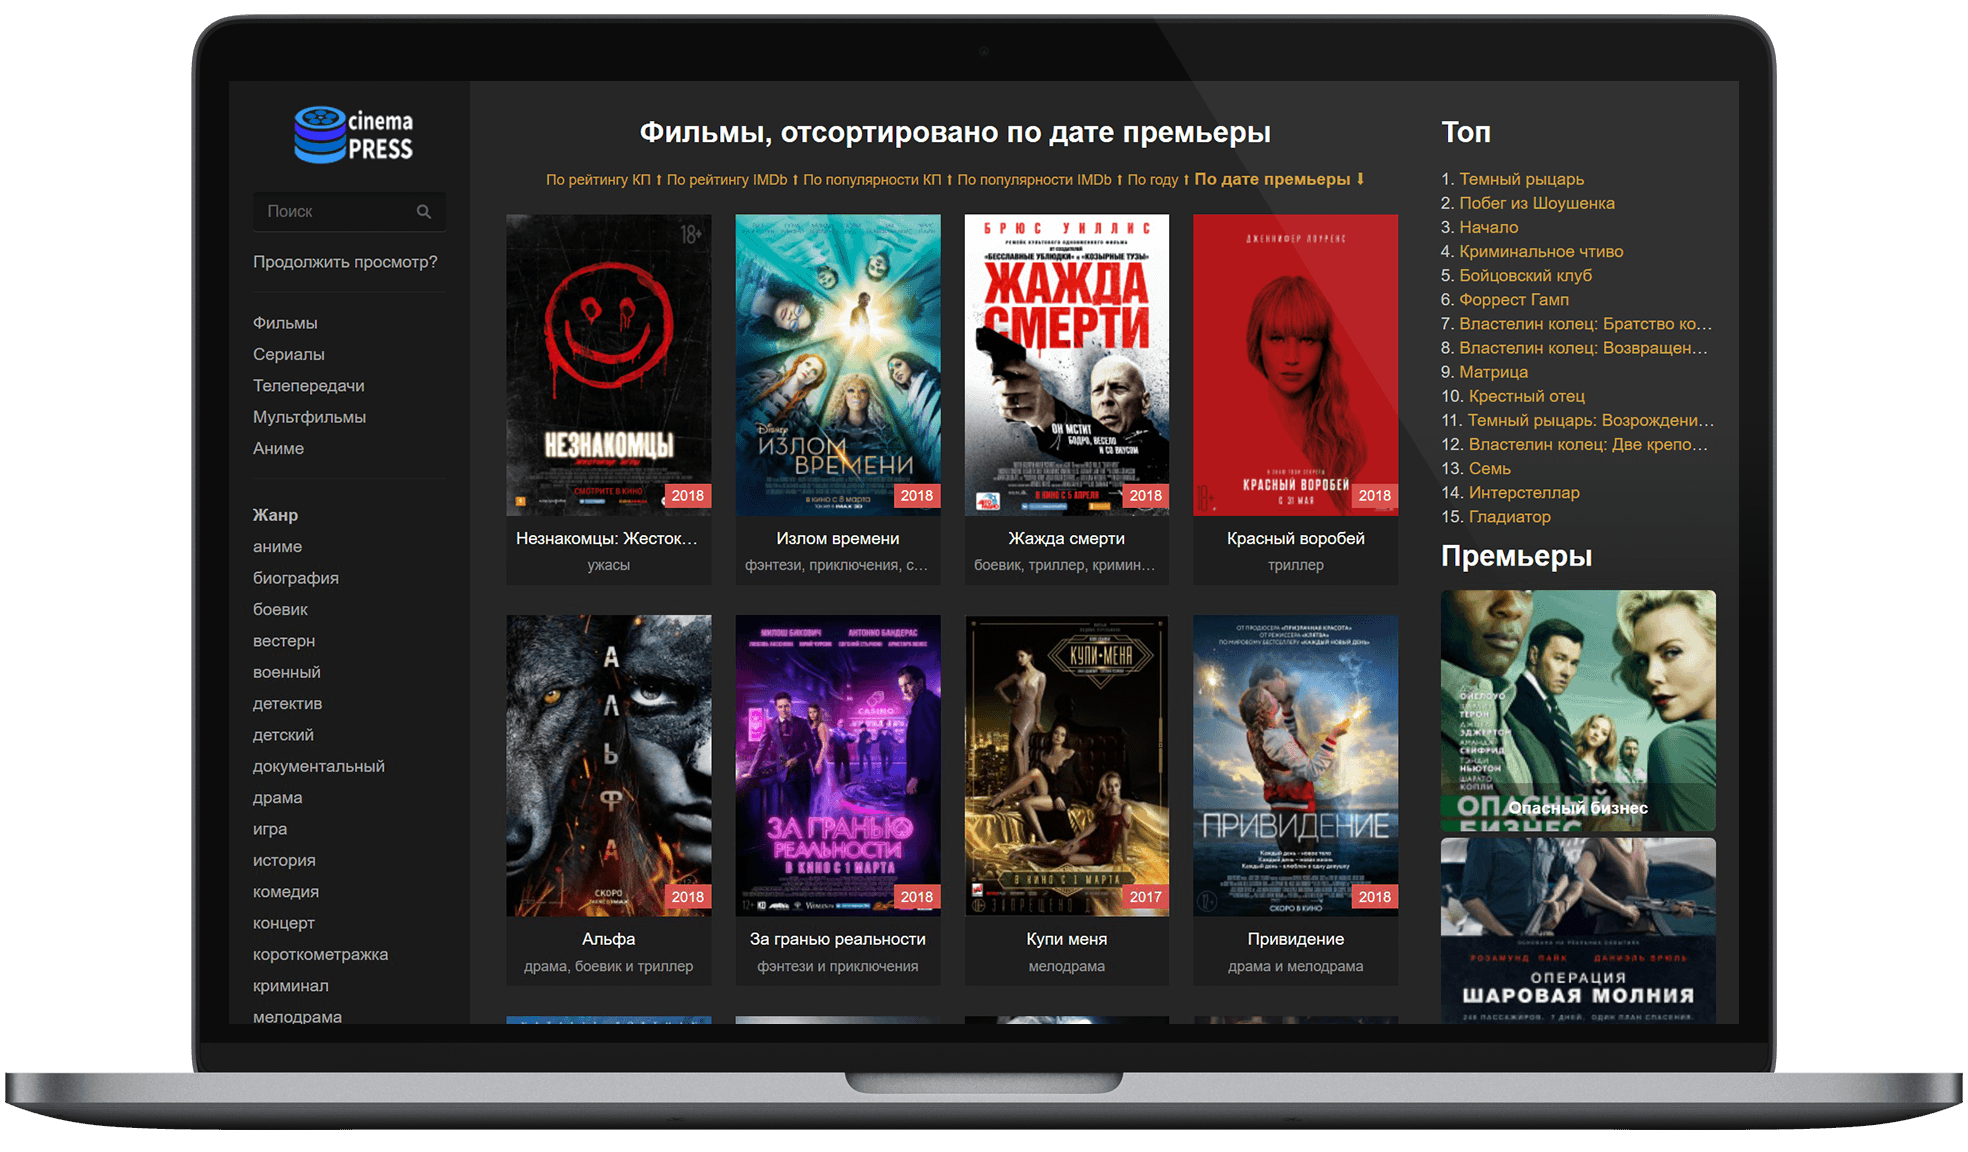
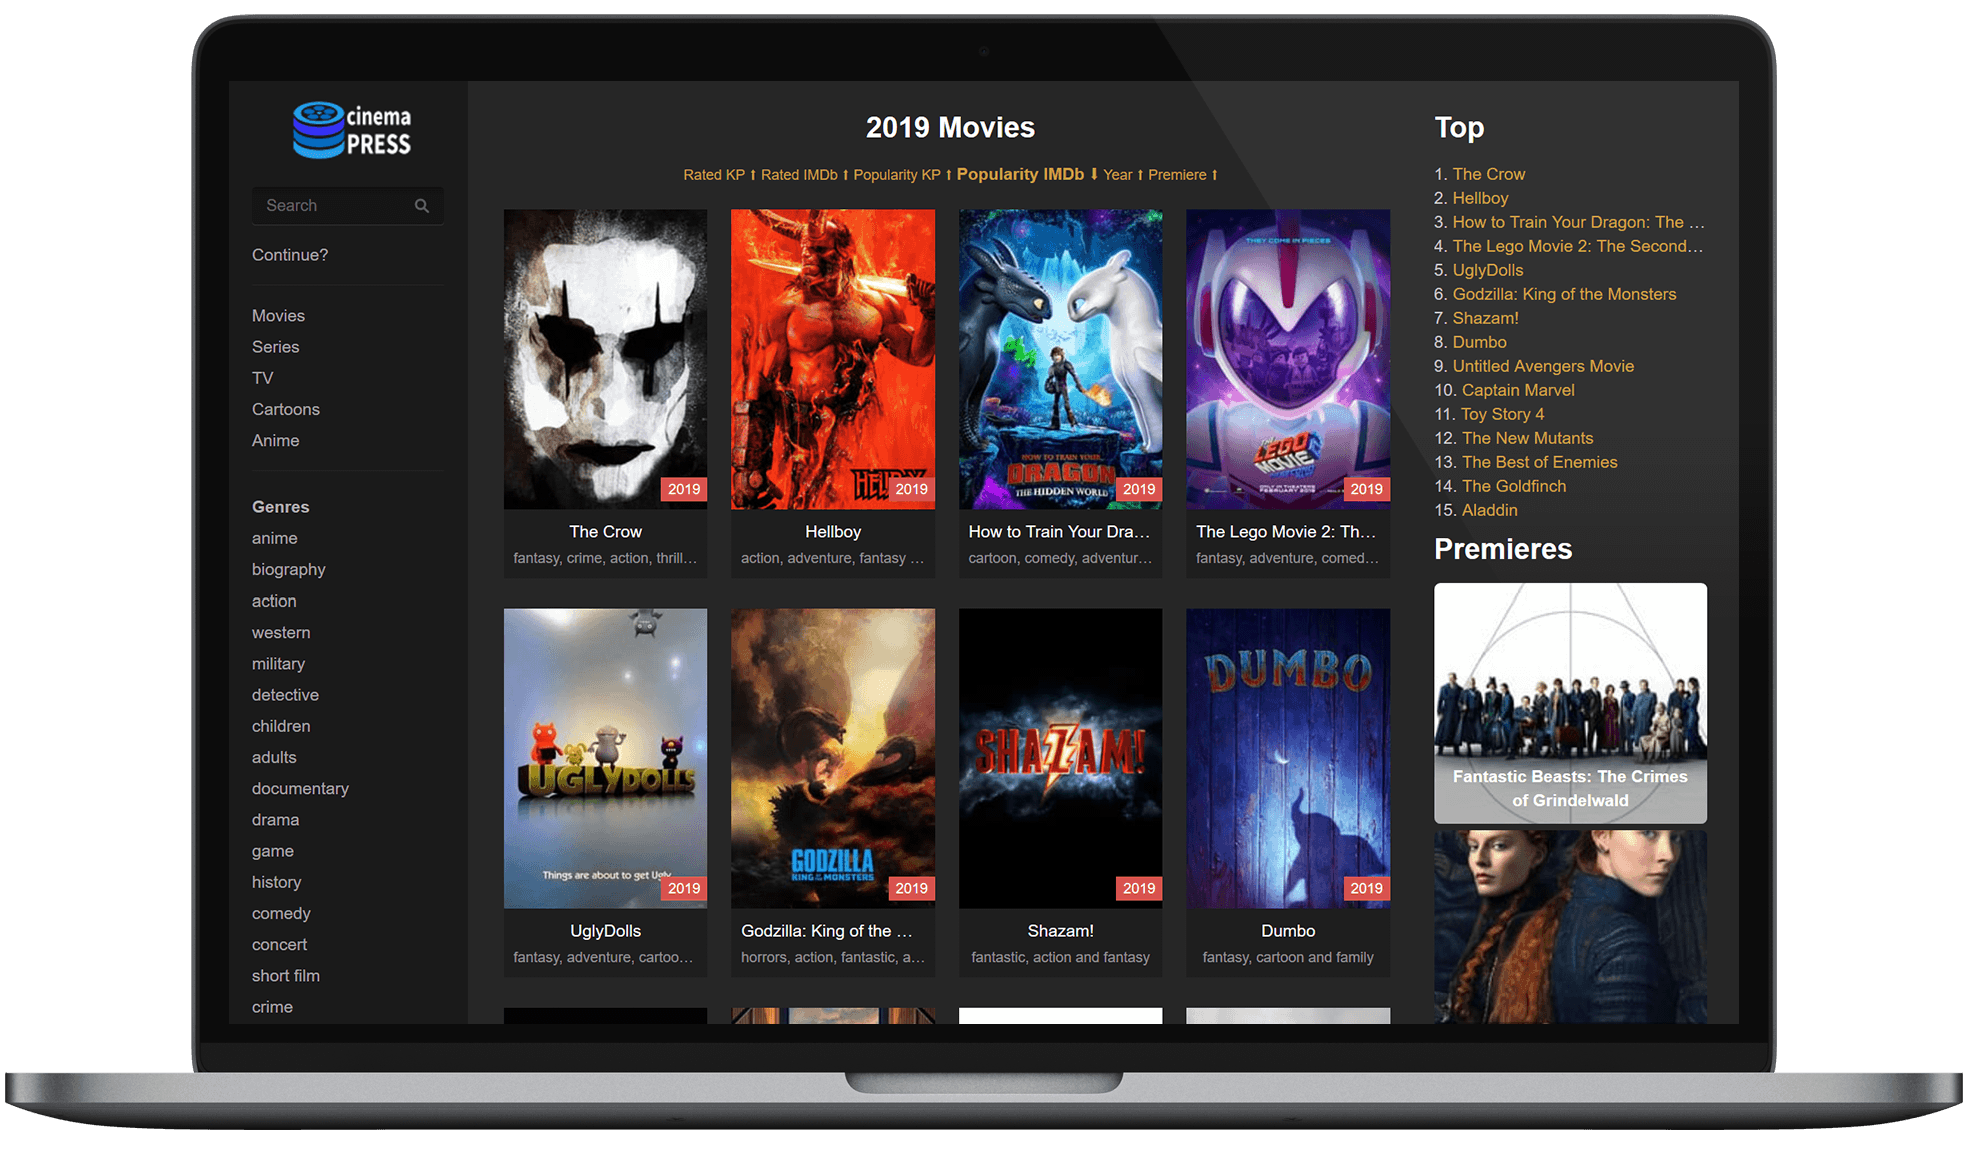
Add translate, new scr

diff --git a/README.md b/README.md
@@ -1,18 +1,29 @@
-# Шаблон «mormont»
+# Theme «mormont»
 
-![Шаблон «mormont» для CinemaPress ACMS](https://raw.githubusercontent.com/CinemaPress/Theme-Mormont/master/screenshot.png "Шаблон «mormont» для CinemaPress ACMS")
+![Theme «mormont» for CinemaPress ACMS](https://raw.githubusercontent.com/CinemaPress/Theme-Mormont/master/screenshot.png "Theme «mormont» for CinemaPress ACMS")
 
-:art: Шаблон «mormont» для CinemaPress ACMS
+:art: Theme «mormont» for CinemaPress ACMS
 
 - [Mormont.CinemaPress.org](http://Mormont.CinemaPress.org/)
 
-## Установка
+## How to install?
+1. Download [GitHub](https://github.com/CinemaPress/Theme-Mormont/archive/master.zip) or [GitLab](https://gitlab.com/CinemaPress/Theme-Mormont/repository/archive.zip) or [BitBucket](https://bitbucket.org/cinemapress/theme-mormont/get/master.zip) or [Coding](https://coding.net/u/CinemaPress/p/Theme-Mormont/git/archive/master.zip)
+2. Unpack the archive and rename the folder to **mormont**
+3. Folder **mormont** send to server in folder **themes**
+4. Change the name of the theme in the admin panel to **mormont**
+
+## Installation via terminal
+```
+~# wget cinemapress.org/i -qO i && chmod +x i && ./i 3
+```
+
+## Как установить?
 1. Скачать архив с [GitHub](https://github.com/CinemaPress/Theme-Mormont/archive/master.zip) или [GitLab](https://gitlab.com/CinemaPress/Theme-Mormont/repository/archive.zip) или [BitBucket](https://bitbucket.org/cinemapress/theme-mormont/get/master.zip) или [Coding](https://coding.net/u/CinemaPress/p/Theme-Mormont/git/archive/master.zip)
 2. Распаковать архив и переименовать папку в **mormont**
 3. Папку **mormont** отправить на сервер в папку **themes**
 4. Изменить название темы в админ-панели на **mormont**
 
-## Установка через установщик тем CinemaPress ACMS
+## Установка через терминал
 ```
 ~# wget cinemapress.org/i -qO i && chmod +x i && ./i 3
 ```
